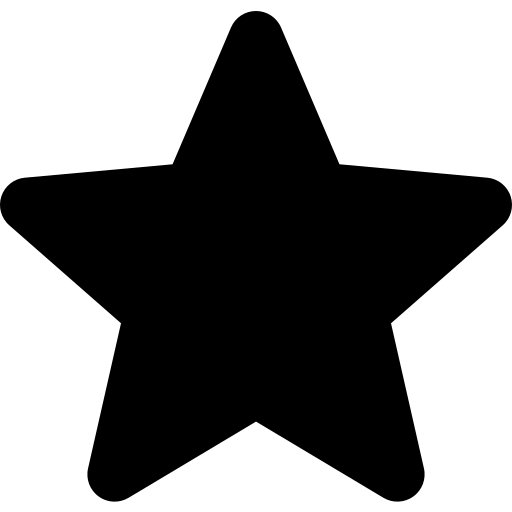
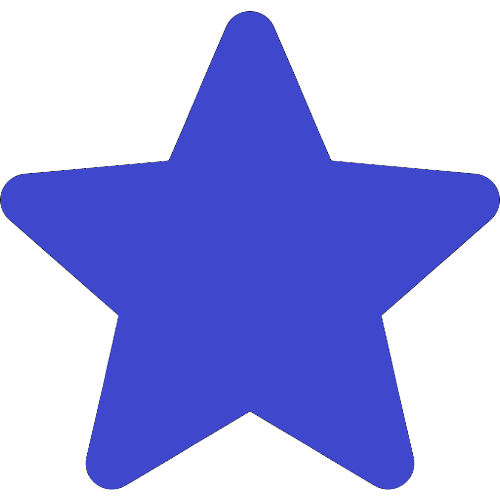
asda

diff --git a/css/styleSection8.css b/css/styleSection8.css
@@ -201,13 +201,12 @@
 .container-card-8 .card-item-2-8 .card-user-8 .estrellas-8 {
   border: 0px solid black;
   height: 30px;
-
   margin: 10px 0px 0px 20px;
 }
 .container-card-8 .card-item-2-8 .card-user-8 .estrellas-8 img {
   width: 20px;
   height: 20px;
-  filter: contrast(30%);
+  filter: contrast(100%);
   
 }
 .container-card-8 .card-item-2-8 .card-user-8 .name-user-8 {
